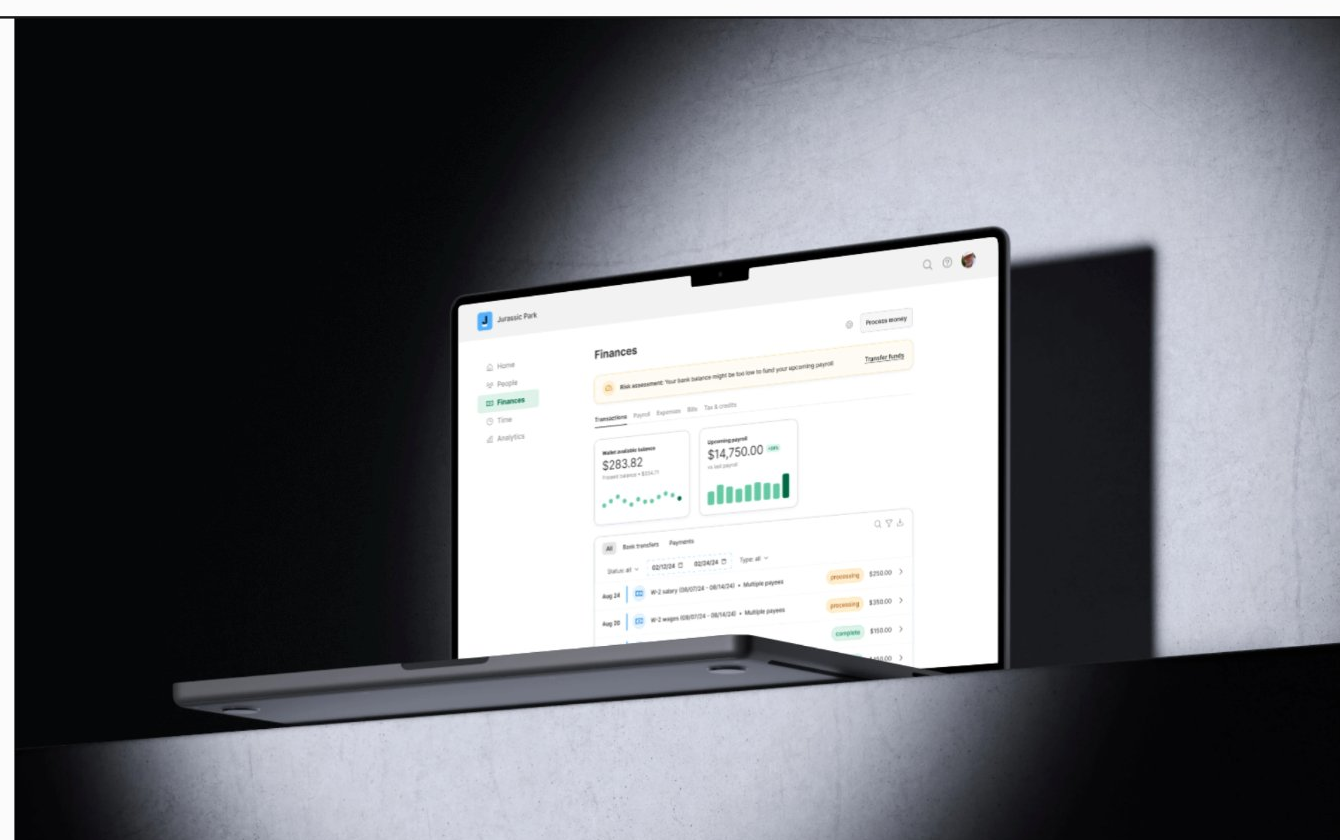
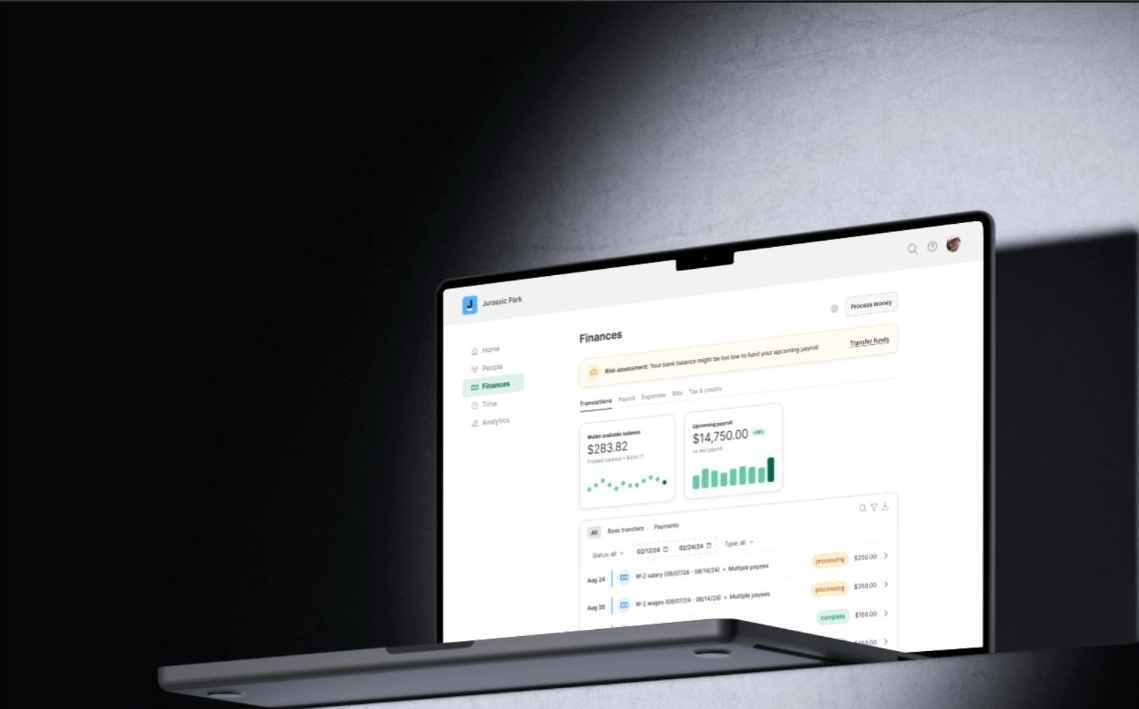
Magi framing, methodology fix, Vimeo embeds, side-nav clipping
- Magi Vision: drop review-pipeline and Cooper mentions; MODEL B2B SaaS,
  STATUS pre-seed seeking early-stage investors
- PayApp / New Payments: Discover no longer styled as an active button
- Side navigation: clip overflowing labels instead of trailing ellipsis
- Lifecycle: Vimeo hero film replaces the placeholder
- Sandbox: AIEdu tile plays its Vimeo reel in the lightbox

diff --git a/sandbox.html b/sandbox.html
@@ -82,6 +82,8 @@
      heights below actually resolve and the image scales instead of overflowing */
   .lb-stage { position: relative; flex: 1 1 0; height: 0; min-height: 0; display: flex; align-items: center; justify-content: center; padding: 48px 72px 12px; overflow: hidden; }
   .lb-stage #lbMedia { width: 100%; height: 100%; display: flex; align-items: center; justify-content: center; min-height: 0; }
+  .lb-stage .lb-video { width: min(100%, 1100px); aspect-ratio: 16/9; max-height: 100%; }
+  .lb-stage .lb-video iframe { width: 100%; height: 100%; border: 0; display: block; background: #000; }
   .lb-stage img { max-width: 100%; max-height: 100%; width: auto; height: auto; object-fit: contain; display: block; border: 1px solid var(--line); background: #05080B; }
   .lb-panel { flex: 0 0 auto; }
   .lb-stage .lb-empty { display: flex; flex-direction: column; align-items: center; justify-content: center; gap: 12px; border: 1px dashed var(--line); background: var(--bg-panel); padding: 70px 50px; }
@@ -210,36 +212,10 @@
       <div class="group-meta">STRUCTURAL · COMPLIANCE · PHYSICAL PROTOTYPES</div>
     </div>
     <div class="tile-grid">
-      <button class="tile" type="button">
+      <button class="tile" type="button" data-vimeo="944954743">
         <div class="corner tl"></div><div class="corner br"></div>
-        <div class="tile-media"><div class="hatch"></div><div class="building"><svg viewBox="0 0 24 24" fill="none" stroke="#8FD6FF" stroke-width="1.5" stroke-linecap="round" stroke-linejoin="round" aria-hidden="true"><path d="M2 20h20"/><path d="M4 20V10l8-5 8 5v10"/><path d="M9 20v-5h6v5"/><path d="M12 5V2"/></svg><div class="bt">CURRENTLY BUILDING</div><div class="bs">packaging system or compliance artwork</div></div></div>
-        <div class="tile-info"><div class="t-title">Compliance &amp; Packaging</div><div class="t-org">HADDAD BRANDS — ASST. PACKAGING DESIGNER</div><p class="t-desc">Re-engineered packaging systems for Levi's, Lacoste, Nike, Converse, Ralph Lauren, Abercrombie and Hurley.</p><div class="badges"><span class="badge">FASHION</span></div></div>
-      </button>
-      <button class="tile" type="button">
-        <div class="corner tl"></div><div class="corner br"></div>
-        <div class="tile-media"><div class="hatch"></div><div class="building"><svg viewBox="0 0 24 24" fill="none" stroke="#8FD6FF" stroke-width="1.5" stroke-linecap="round" stroke-linejoin="round" aria-hidden="true"><path d="M2 20h20"/><path d="M4 20V10l8-5 8 5v10"/><path d="M9 20v-5h6v5"/><path d="M12 5V2"/></svg><div class="bt">CURRENTLY BUILDING</div><div class="bs">3D print photo</div></div></div>
-        <div class="tile-info"><div class="t-title">[3D print project name]</div><div class="t-org">PHYSICAL PROTOTYPE</div><p class="t-desc">[Placeholder — the object, the constraint, what it proves about tangible product thinking.]</p><div class="badges"><span class="badge">PROTOTYPE</span><span class="badge">3D PRINTING</span></div></div>
-      </button>
-      <button class="tile" type="button">
-        <div class="corner tl"></div><div class="corner br"></div>
-        <div class="tile-media"><div class="hatch"></div><div class="building"><svg viewBox="0 0 24 24" fill="none" stroke="#8FD6FF" stroke-width="1.5" stroke-linecap="round" stroke-linejoin="round" aria-hidden="true"><path d="M2 20h20"/><path d="M4 20V10l8-5 8 5v10"/><path d="M9 20v-5h6v5"/><path d="M12 5V2"/></svg><div class="bt">CURRENTLY BUILDING</div><div class="bs">Arduino build photo</div></div></div>
-        <div class="tile-info"><div class="t-title">[Arduino project name]</div><div class="t-org">HARDWARE PROTOTYPE</div><p class="t-desc">[Placeholder — what it does, and what it shows about your hardware and software thinking.]</p><div class="badges"><span class="badge">PROTOTYPE</span><span class="badge">ARDUINO</span></div></div>
-      </button>
-    </div>
-  </div>
-</section>
-
-<section class="group" data-cat="motion">
-  <div class="wrap">
-    <div class="group-head">
-      <div class="group-name">Motion Design</div>
-      <div class="group-meta">CAMPAIGN MOTION · ANIMATION</div>
-    </div>
-    <div class="tile-grid">
-      <button class="tile" type="button">
-        <div class="corner tl"></div><div class="corner br"></div>
-        <div class="tile-media"><div class="hatch"></div><div class="building"><svg viewBox="0 0 24 24" fill="none" stroke="#8FD6FF" stroke-width="1.5" stroke-linecap="round" stroke-linejoin="round" aria-hidden="true"><path d="M2 20h20"/><path d="M4 20V10l8-5 8 5v10"/><path d="M9 20v-5h6v5"/><path d="M12 5V2"/></svg><div class="bt">CURRENTLY BUILDING</div><div class="bs">AIEdu motion frame or campaign still</div></div></div>
-        <div class="tile-info"><div class="t-title">AIEdu</div><div class="t-org">FIT CAPSTONE — ADVERTISING &amp; MOTION</div><p class="t-desc">Advertising capstone campaign built around AI literacy, featuring original motion design work.</p><div class="badges"><span class="badge">CASE STUDY</span></div></div>
+        <div class="tile-media"><div class="hatch"></div><div class="building"><svg viewBox="0 0 24 24" fill="none" stroke="#8FD6FF" stroke-width="1.5" stroke-linecap="round" stroke-linejoin="round" aria-hidden="true"><path d="m10 8 6 4-6 4Z"/><rect x="2" y="4" width="20" height="16" rx="2"/></svg><div class="bt">PLAY REEL</div><div class="bs">opens the AIEdu film</div></div></div>
+        <div class="tile-info"><div class="t-title">AIEdu</div><div class="t-org">FIT CAPSTONE — ADVERTISING &amp; MOTION</div><p class="t-desc">Advertising capstone campaign built around AI literacy, featuring original motion design work.</p><div class="badges"><span class="badge">CASE STUDY</span><span class="badge">MOTION</span></div></div>
       </button>
       <button class="tile" type="button">
         <div class="corner tl"></div><div class="corner br"></div>
@@ -357,8 +333,13 @@
       var t = items[idx];
       if (!t) return;
       var full = t.getAttribute('data-full');
+      var vimeo = t.getAttribute('data-vimeo');
       var img = t.querySelector('.tile-media img');
-      if (full) {
+      if (vimeo) {
+        media.innerHTML = '<div class="lb-video"><iframe src="https://player.vimeo.com/video/' + vimeo +
+          '?title=0&byline=0&portrait=0" title="Vimeo player" frameborder="0" ' +
+          'allow="autoplay; fullscreen; picture-in-picture" allowfullscreen></iframe></div>';
+      } else if (full) {
         media.innerHTML = '<img src="' + full + '" alt="' + (img ? img.getAttribute('alt') || '' : '') + '">';
       } else {
         media.innerHTML = '<div class="lb-empty">' + ICON + '<div class="bt">CURRENTLY BUILDING</div></div>';

diff --git a/lifecycle-case-study.html b/lifecycle-case-study.html
@@ -64,6 +64,7 @@
 
   .hero-visual, .img-block { border: 1px solid var(--line); background: var(--bg-panel); position: relative; overflow: hidden; }
   .hero-visual { aspect-ratio: 16/9; }
+  .hero-visual iframe { position: absolute; inset: 0; width: 100%; height: 100%; border: 0; display: block; }
   .hero-visual img, .img-block img { width: 100%; height: 100%; object-fit: cover; display: block; }
   .hero-visual .hatch, .img-block .hatch { position: absolute; inset: 0; background-image: repeating-linear-gradient(45deg, rgba(143,214,255,0.05) 0, rgba(143,214,255,0.05) 1px, transparent 1px, transparent 10px), repeating-linear-gradient(-45deg, rgba(143,214,255,0.05) 0, rgba(143,214,255,0.05) 1px, transparent 1px, transparent 10px); }
   .hero-visual .ph-label, .img-block .ph-label { position: absolute; inset: 0; display: flex; align-items: center; justify-content: center; font-family: 'IBM Plex Mono', monospace; font-size: 12px; color: var(--muted); text-align: center; padding: 20px; }
@@ -204,11 +205,10 @@
     </div>
 
     <div class="hero-visual">
-      <div class="hatch"></div>
       <div class="corner tl"></div><div class="corner br"></div>
-      <div class="building"><svg viewBox="0 0 24 24" fill="none" stroke="#8FD6FF" stroke-width="1.5" stroke-linecap="round" stroke-linejoin="round" aria-hidden="true"><path d="M2 20h20"/><path d="M4 20V10l8-5 8 5v10"/><path d="M9 20v-5h6v5"/><path d="M12 5V2"/></svg><div class="bt">CURRENTLY BUILDING</div><div class="bs">original hero was a Vimeo-embedded city street video; swap for a real still or export a poster frame</div></div>
+      <iframe src="https://player.vimeo.com/video/934941627?title=0&byline=0&portrait=0&muted=1&autoplay=1&loop=1&background=1" title="LIFECYCLE hero film" frameborder="0" allow="autoplay; fullscreen; picture-in-picture" allowfullscreen></iframe>
     </div>
-    <div class="hero-caption">Original site used a looping street-crossing video here — not reproduced since it's third-party stock footage.</div>
+    <div class="hero-caption">LIFECYCLE — the opening film. <a href="https://vimeo.com/934941627" target="_blank" rel="noopener" style="color:var(--accent);text-decoration:none;">Watch on Vimeo ↗</a></div>
   </div>
 </header>
 
